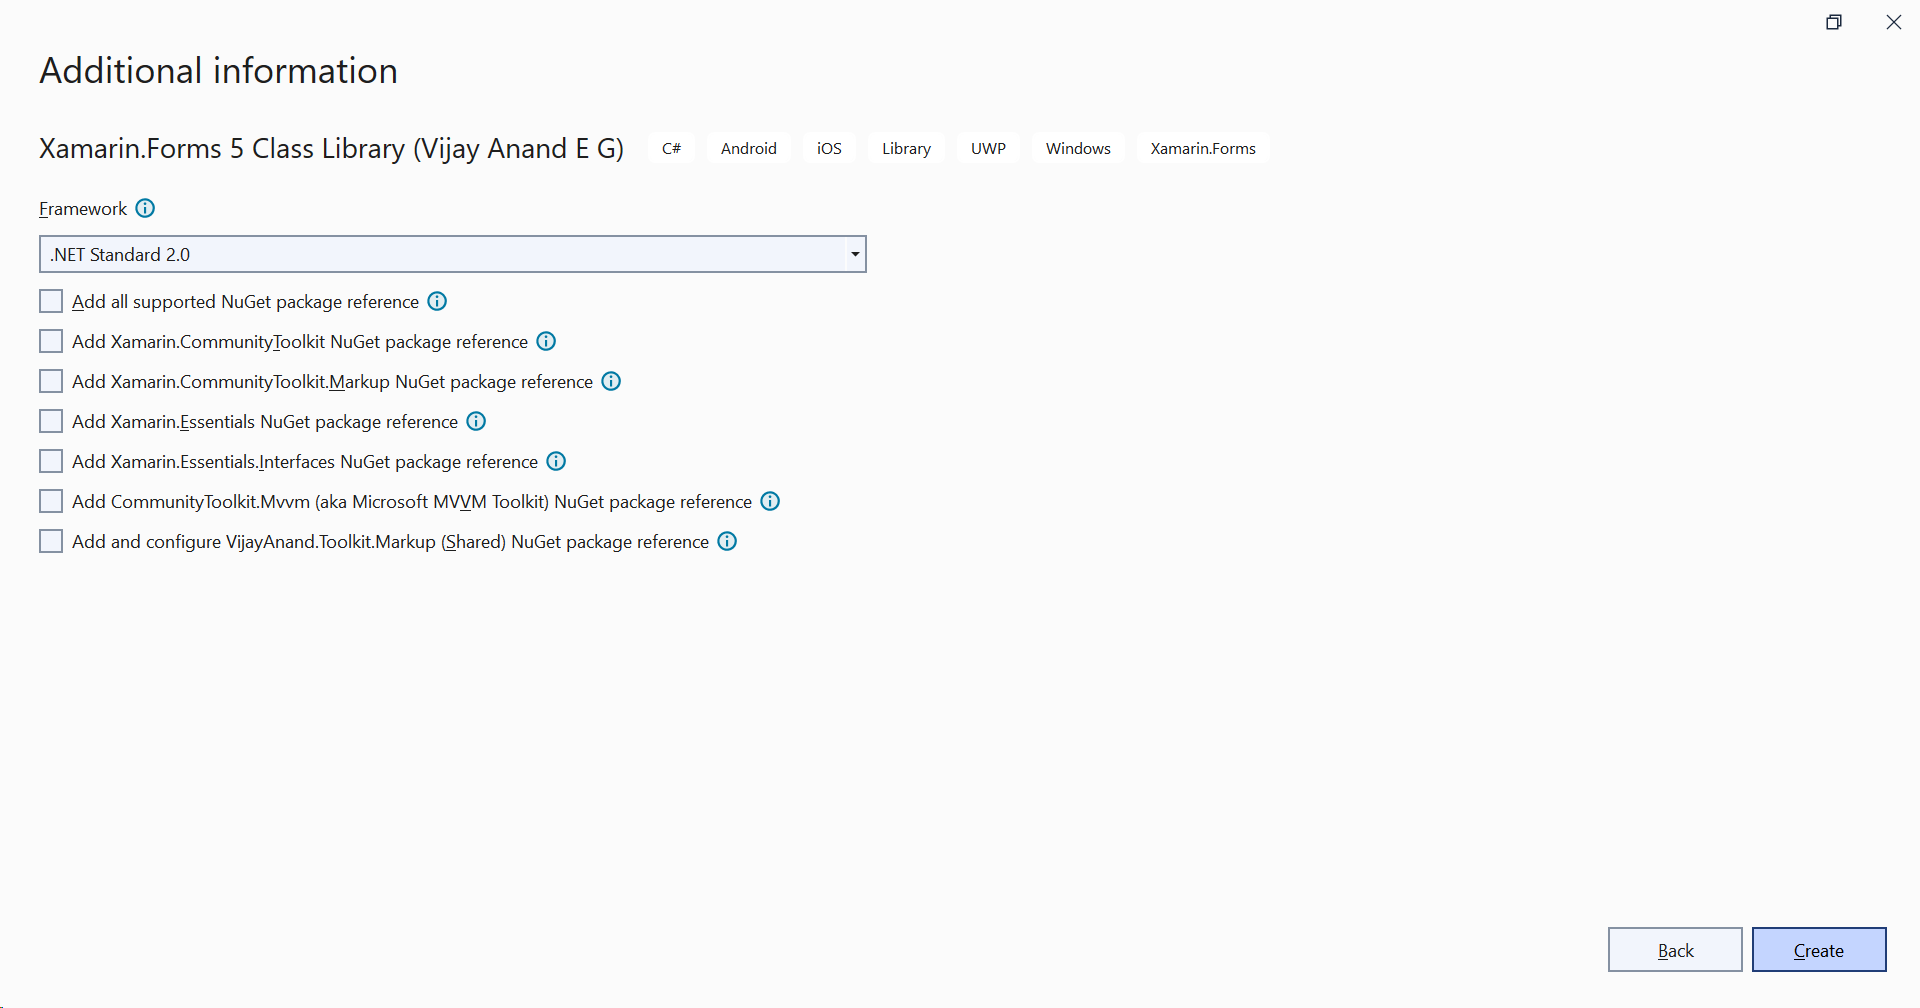
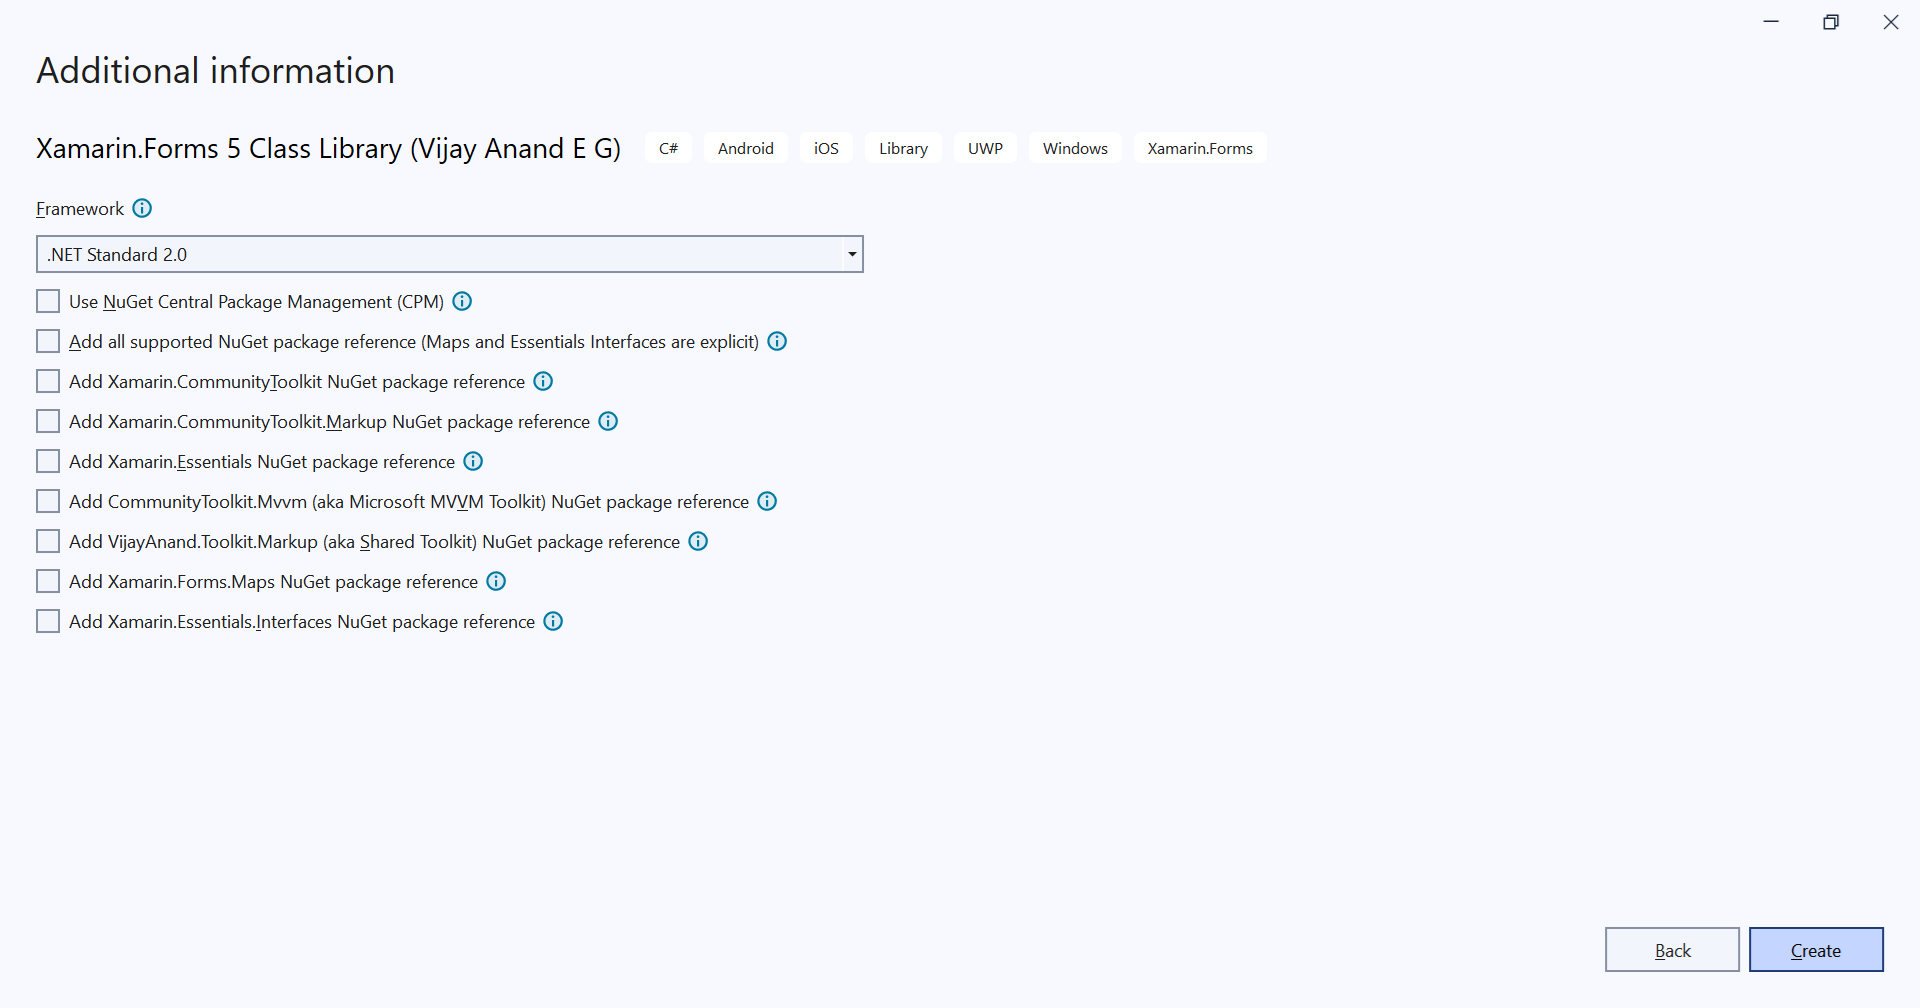
Maps package and auto xmlns scope for XCT #30 #31

diff --git a/src/FormsTemplatesCLI/FormsItem/FormsItem.1.xaml b/src/FormsTemplatesCLI/FormsItem/FormsItem.1.xaml
@@ -7,6 +7,9 @@
     xmlns:x="http://schemas.microsoft.com/winfx/2009/xaml"
     xmlns:d="http://xamarin.com/schemas/2014/forms/design"
     xmlns:mc="http://schemas.openxmlformats.org/markup-compatibility/2006"
+<!--#if (Toolkit)-->
+    xmlns:xct="http://xamarin.com/schemas/2020/toolkit"
+<!--#endif-->
     xmlns:local="clr-namespace:MyApp.Namespace"
     x:TypeArguments="TObject"
     mc:Ignorable="d">
@@ -17,6 +20,9 @@
     xmlns:x="http://schemas.microsoft.com/winfx/2009/xaml"
     xmlns:d="http://xamarin.com/schemas/2014/forms/design"
     xmlns:mc="http://schemas.openxmlformats.org/markup-compatibility/2006"
+<!--#if (Toolkit)-->
+    xmlns:xct="http://xamarin.com/schemas/2020/toolkit"
+<!--#endif-->
     xmlns:local="clr-namespace:MyApp.Namespace"
     mc:Ignorable="d">
 </ContentPage>
@@ -29,6 +35,9 @@
     xmlns:x="http://schemas.microsoft.com/winfx/2009/xaml"
     xmlns:d="http://xamarin.com/schemas/2014/forms/design"
     xmlns:mc="http://schemas.openxmlformats.org/markup-compatibility/2006"
+<!--#if (Toolkit)-->
+    xmlns:xct="http://xamarin.com/schemas/2020/toolkit"
+<!--#endif-->
     xmlns:local="clr-namespace:MyApp.Namespace"
     x:TypeArguments="TObject"
     mc:Ignorable="d">
@@ -40,6 +49,9 @@
     xmlns:x="http://schemas.microsoft.com/winfx/2009/xaml"
     xmlns:d="http://xamarin.com/schemas/2014/forms/design"
     xmlns:mc="http://schemas.openxmlformats.org/markup-compatibility/2006"
+<!--#if (Toolkit)-->
+    xmlns:xct="http://xamarin.com/schemas/2020/toolkit"
+<!--#endif-->
     xmlns:local="clr-namespace:MyApp.Namespace"
     mc:Ignorable="d">
 </ContentPage>

diff --git a/src/FormsTemplatesCLI/FormsClassLib/HomePage.cs b/src/FormsTemplatesCLI/FormsClassLib/HomePage.cs
@@ -1,5 +1,9 @@
 using Xamarin.Forms;
 using Xamarin.Forms.Xaml;
+#if AddMaps
+
+using Xamarin.Forms.Maps;
+#endif
 #if (AddEssentials || AddEssentialsInterfaces)
 
 using Xamarin.Essentials;

diff --git a/src/FormsTemplatesCLI/FormsItem/FormsItem.1.xaml.cs b/src/FormsTemplatesCLI/FormsItem/FormsItem.1.xaml.cs
@@ -1,5 +1,9 @@
 using Xamarin.Forms;
 using Xamarin.Forms.Xaml;
+#if Toolkit
+
+using Xamarin.CommunityToolkit.UI.Views;
+#endif
 
 namespace MyApp.Namespace
 {

diff --git a/README.md b/README.md
@@ -2,11 +2,13 @@
 
 Join me on [**Developer Thoughts**](https://egvijayanand.in/), an exclusive blog for Xamarin.Forms, .NET MAUI, and Blazor with articles on working with it.
 
+Consult this [Xamarin.Forms Templates](https://egvijayanand.in/2024/01/26/introducing-xamarin-forms-templates/) article for further details.
+
 #### Available to install from
 
 |NuGet|VS Marketplace|
 |:---:|:---:|
-|[![VijayAnand.FormsTemplates - NuGet Package](https://badgen.net/nuget/v/VijayAnand.FormsTemplates/?icon=nuget)](https://www.nuget.org/packages/VijayAnand.FormsTemplates/)|[![Xamarin.Forms Project and Item Templates - VS Marketplace](https://badgen.net/vs-marketplace/v/egvijayanand.xamarin-forms-templates?icon=visualstudio&foo=bar)](https://marketplace.visualstudio.com/items?itemName=egvijayanand.xamarin-forms-templates)|
+|[![VijayAnand.FormsTemplates - NuGet Package](https://badgen.net/nuget/v/VijayAnand.FormsTemplates/?icon=nuget&foo=bar)](https://www.nuget.org/packages/VijayAnand.FormsTemplates/)|[![Xamarin.Forms Project and Item Templates - VS Marketplace](https://badgen.net/vs-marketplace/v/egvijayanand.xamarin-forms-templates?icon=visualstudio&foo=bar)](https://marketplace.visualstudio.com/items?itemName=egvijayanand.xamarin-forms-templates)|
 
 #### Access within Visual Studio IDE
 
@@ -47,7 +49,7 @@ dotnet new update
 
 Project template for Xamarin.Forms 5 Class Library and is named as `formsclasslib`
 
-Class library project template take the below optional parameters to override its target framework and to include the officially supported [Xamarin.CommunityToolkit](https://www.nuget.org/packages/Xamarin.CommunityToolkit), [Xamarin.CommunityToolkit.Markup](https://www.nuget.org/packages/Xamarin.CommunityToolkit.Markup), [Xamarin.Essentials](https://www.nuget.org/packages/Xamarin.Essentials), [CommunityToolkit.Mvvm](https://www.nuget.org/packages/CommunityToolkit.Mvvm) (aka Microsoft MVVM Toolkit), [VijayAnand.Toolkit.Markup](https://www.nuget.org/packages/VijayAnand.Toolkit.Markup) (the Shared Toolkit) or all NuGet packages:
+Class library project template take the below optional parameters to override its target framework and to include the officially released  [Xamarin.Forms.Maps](https://www.nuget.org/packages/Xamarin.Forms.Maps), [Xamarin.CommunityToolkit](https://www.nuget.org/packages/Xamarin.CommunityToolkit), [Xamarin.CommunityToolkit.Markup](https://www.nuget.org/packages/Xamarin.CommunityToolkit.Markup), [Xamarin.Essentials](https://www.nuget.org/packages/Xamarin.Essentials), [CommunityToolkit.Mvvm](https://www.nuget.org/packages/CommunityToolkit.Mvvm) (aka Microsoft MVVM Toolkit), [VijayAnand.Toolkit.Markup](https://www.nuget.org/packages/VijayAnand.Toolkit.Markup) (aka Shared Toolkit) or all NuGet packages:
 
 * `-f` | `--framework` - Default value is `netstandard2.0`
 * `-asp` | `--all-supported-packages` - Default value is `false`
@@ -59,9 +61,10 @@ Class library project template take the below optional parameters to override it
 
 Explicit option:
 
+* `-inm` | `--include-maps` - Default value is `false`
 * `-iei` | `--include-essentials-interfaces` - Default value is `false`
 
-*Note: The NuGet package version being added out-of-the-box are v2.0.x for the Xamarin Toolkit packages, v1.8.x for the Xamarin.Essentials package, and v8.2.x for the MVVM Toolkit package.*
+*Note: The NuGet package version being added out-of-the-box are v5.x for the Xamarin packages, v2.x for the Xamarin Toolkit packages, v1.x for the Xamarin.Essentials package, and v8.x for the MVVM Toolkit package. The latest stable version.*
 
 |Item|Template Name|
 |:---:|:---:|
@@ -94,18 +97,18 @@ dotnet new formsclasslib -o MyApp.Core -f netstandard2.1
 Option to include NuGet packages:
 
 ```shell
-dotnet new formsclasslib -o MyApp.UI -it -im -ie -iei -imt -ist
+dotnet new formsclasslib -o MyApp.UI -it -im -ie -iei -imt -inm -ist
 ```
 
-In a single parameter (Essentials Interfaces is an exception, to be explicitly mentioned):
+In a single parameter (Maps and Essentials Interfaces are exceptions, to be explicitly mentioned):
 
 ```shell
-dotnet new formsclasslib -o MyApp.UI -asp -iei
+dotnet new formsclasslib -o MyApp.UI -asp -iei -inm
 ```
 
 NuGet Central Package Management (CPM) feature:
 
-_For now, this is supported only on CLI. Can be used in combination with other parameters too._
+*This can be used in combination with other parameters too.*
 
 ```shell
 dotnet new formsclasslib -o MyApp.UI -cpm
@@ -125,7 +128,7 @@ And `-na` denotes the namespace under which the file is to be created (Can also 
 
 ![Xamarin.Forms Generic Item Templates by Vijay Anand E G](images/xamarin-forms-add-new-item.png)
 
-* A revolutionary generic item template, in XAML and C#, for creating items of any type
+* An innovative generic item template, in XAML and C#, for creating items of any type
 * Supported both within the VS2022 IDE and CLI
 * On CLI, it is named as `forms-item` and `forms-item-cs`
 * The same set of parameters is defined in the UI as `Dropdown`, `TextBox` and `CheckBox` for ease of use
@@ -142,9 +145,12 @@ And `-na` denotes the namespace under which the file is to be created (Can also 
 
 *Tip 1: For XAML template, pass the `xmlns` scope, like `xct:Popup`, as part of the input parameter value and it'll be used appropriately in the generated source files.*
 
-*Tip: Tip: Use `local` scope to refer to the types in the same directory like `Views`. For e.g., `local:BasePage`.*
+*Tip: Tip: Use `local` scope (a predefined scope in the template) to refer to the types in the same directory like `Views`. For e.g., `local:BasePage`.*
 
 Example:
+
+*Suffixes like Page, View, and so on are necessary while using generic item templates.*
+
 ```shell
 dotnet new forms-item -n ThemePopup -b xct:Popup -p:na MyApp.Views
 ```
@@ -202,36 +208,36 @@ Views
 
 **Page:**
 ```shell
-dotnet new forms-page -n Login -na MyApp.Views
+dotnet new forms-page -n Login -p:na MyApp.Views
 ```
 ```shell
-dotnet new forms-page-cs -n Home -na MyApp.Views
+dotnet new forms-page-cs -n Home -p:na MyApp.Views
 ```
 
 **View:**
 ```shell
-dotnet new forms-view -n Card -na MyApp.Views
+dotnet new forms-view -n Card -p:na MyApp.Views
 ```
 ```shell
-dotnet new forms-view-cs -n Order -na MyApp.Views
+dotnet new forms-view-cs -n Order -p:na MyApp.Views
 ```
 
 **Shell:**
 ```shell
-dotnet new forms-shell -n App -na MyApp
+dotnet new forms-shell -n App -p:na MyApp
 ```
 ```shell
-dotnet new forms-shell-cs -n Mobile -na MyApp
+dotnet new forms-shell-cs -n Mobile -p:na MyApp
 ```
 
 **Resource Dictionary:**
 
 With C# code-behind file:
 ```shell
-dotnet new forms-resdict -n DefaultTheme -na MyApp.Themes
+dotnet new forms-resdict -n DefaultTheme -p:na MyApp.Themes
 ```
 
 Without C# code-behind file - Xaml only (The option to be specified is `-xo` or `--xaml-only`):
 ```shell
-dotnet new forms-resdict -n DarkTheme -na MyApp.Themes -xo
+dotnet new forms-resdict -n DarkTheme -p:na MyApp.Themes -xo
 ```

diff --git a/src/FormsTemplatesCLI/overview.md b/src/FormsTemplatesCLI/overview.md
@@ -1,11 +1,15 @@
 ### CLI Project and Item Templates for developing Xamarin.Forms App that runs on iOS, Android, and Windows
 
+Join me on [**Developer Thoughts**](https://egvijayanand.in/), an exclusive blog for Xamarin.Forms, .NET MAUI, and Blazor with articles on working with it.
+
+Consult this [Xamarin.Forms Templates](https://egvijayanand.in/2024/01/26/introducing-xamarin-forms-templates/) article for further details.
+
 Project template for Xamarin.Forms 5 Class Library and is named as `formsclasslib`
 
-Class library project template take the below optional parameters to override its target framework and to include the officially supported `Xamarin.CommunityToolkit`, `Xamarin.CommunityToolkit.Markup`, `Xamarin.Essentials`, `CommunityToolkit.Mvvm` (aka Microsoft MVVM Toolkit), `VijayAnand.Toolkit.Markup` (the Shared Toolkit) or all NuGet packages:
+Class library project template take the below optional parameters to override its target framework and to include the officially released `Xamarin.Forms.Maps`, `Xamarin.CommunityToolkit`, `Xamarin.CommunityToolkit.Markup`, `Xamarin.Essentials`, `CommunityToolkit.Mvvm` (aka Microsoft MVVM Toolkit), `VijayAnand.Toolkit.Markup` (aka Shared Toolkit) or all NuGet packages:
 
 * `-f` | `--framework` - Default value is `netstandard2.0`
-* `-asp` | `--all-supported-packages` - Default value is `false`
+* `-asp` | `--all-supported-packages` - Default value is `false` (See below)
 * `-it` | `--include-toolkit` - Default value is `false`
 * `-im` | `--include-markup` - Default value is `false`
 * `-ie` | `--include-essentials` - Default value is `false`
@@ -14,14 +18,19 @@ Class library project template take the below optional parameters to override it
 
 Explicit option:
 
+* `-inm` | `--include-maps` - Default value is `false`
 * `-iei` | `--include-essentials-interfaces` - Default value is `false`
 
-*Note: The NuGet package version being added out-of-the-box are v2.0.x for the Xamarin Toolkit packages, v1.8.x for the Xamarin.Essentials package, and v8.2.x for the MVVM Toolkit package.*
+*Note: The NuGet package version being added out-of-the-box are v5.x for the Xamarin packages, v2.x for the Xamarin Toolkit packages, v1.x for the Xamarin.Essentials package, and v8.x for the MVVM Toolkit package. The latest stable version.*
 
 |Item|Template Name|
 |:---:|:---:|
+|Generic Item (XAML)|forms-item|
+|Generic Item (C#)|forms-item-cs|
 |ContentPage (XAML)|forms-page|
 |ContentPage (C#)|forms-page-cs|
+|ContentPage and ViewModel (XAML)|forms-mvvm|
+|ContentPage and ViewModel (C#)|forms-mvvm-cs|
 |ContentView (XAML)|forms-view|
 |ContentView (C#)|forms-view-cs|
 |ResourceDictionary (XAML)|forms-resdict|
@@ -58,18 +67,18 @@ dotnet new formsclasslib -o MyApp.Core -f netstandard2.1
 Option to include NuGet packages:
 
 ```shell
-dotnet new formsclasslib -o MyApp.UI -it -im -ie -iei -imt -ist
+dotnet new formsclasslib -o MyApp.UI -it -im -ie -iei -imt -inm -ist
 ```
 
-In a single parameter (Essentials Interfaces is an exception, to be explicitly mentioned):
+In a single parameter (Maps and Essentials Interfaces are exceptions, to be explicitly mentioned):
 
 ```shell
-dotnet new formsclasslib -o MyApp.UI -asp -iei
+dotnet new formsclasslib -o MyApp.UI -asp -iei -inm
 ```
 
 NuGet Central Package Management (CPM) feature:
 
-_For now, this is supported only on CLI. Can be used in combination with other parameters too._
+*This can be used in combination with other parameters too.*
 
 ```shell
 dotnet new formsclasslib -o MyApp.UI -cpm
@@ -86,6 +95,39 @@ Here, `-n` denotes the name of the Page/View that is to be created (for Pages/Sh
 And `-na` denotes the namespace under which the file is to be created (Can also be specified as `--namespace` in the expanded form).
 
 *While working with .NET 7 or higher SDK, the namespace parameter in short notation needs to be passed as `-p:na` (i.e., it needs to be prefixed with `-p:`).*
+
+Generic Item:
+
+*Suffixes like Page, View, and so on are necessary while using generic item templates.*
+
+```shell
+dotnet new forms-item -n ThemePopup -b xct:Popup -na MyApp.Views
+```
+
+**Output:** `ThemePopup.xaml` and `ThemePopup.xaml.cs`
+
+```cs
+public partial class ThemePopup : Popup {}
+```
+
+```shell
+dotnet new forms-item -n SearchPage -b FormsPage -g SearchViewModel -p:na MyApp.Views
+```
+
+**Output:** `SearchPage.xaml` and `SearchPage.xaml.cs`
+
+```cs
+public partial class SearchPage : FormsPage<SearchViewModel> {}
+```
+
+MVVM:
+
+```shell
+dotnet new forms-mvvm -n Search -na MyApp.Views
+```
+```shell
+dotnet new forms-mvvm-cs -n Settings -na MyApp.Views
+```
 
 Page:
 
